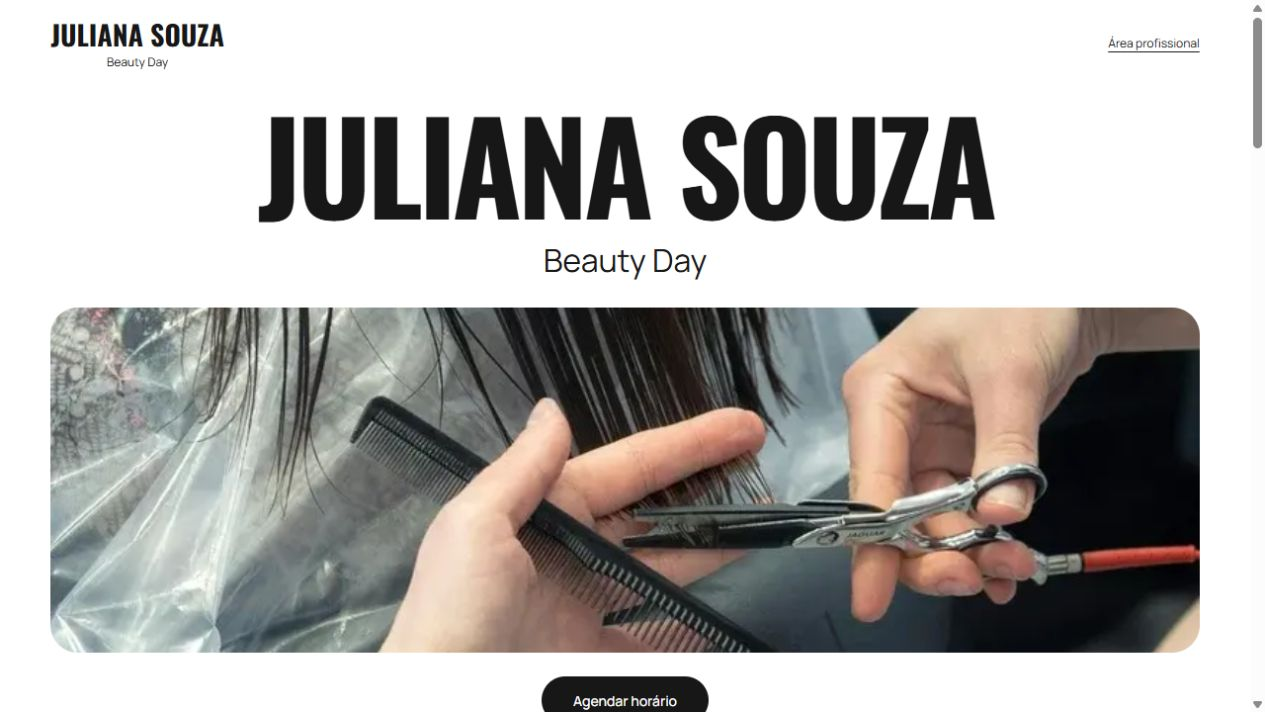
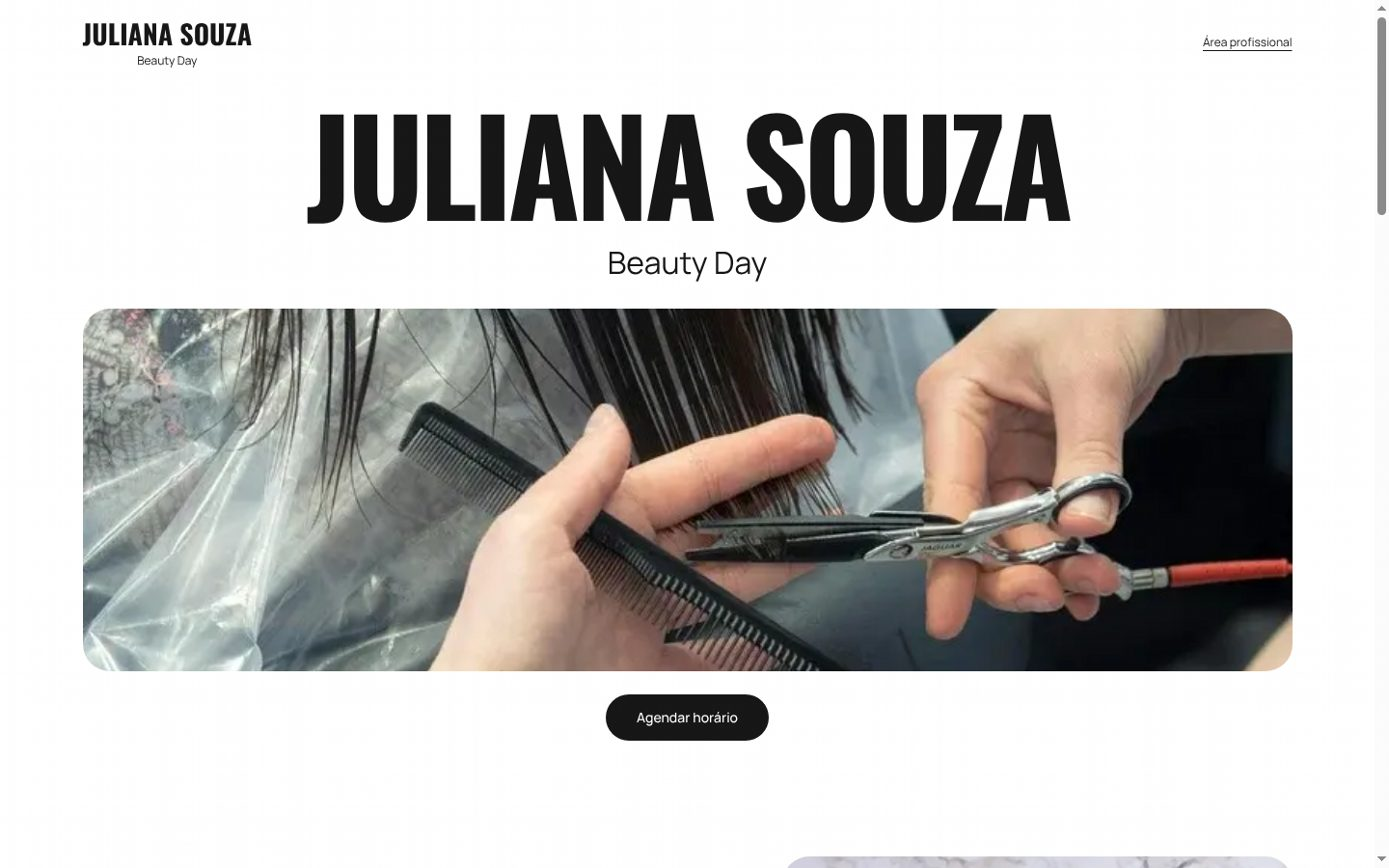
fix: botão de erro recarrega a página inteira

diff --git a/app/error.tsx b/app/error.tsx
@@ -2,7 +2,8 @@
 
 import Link from "next/link";
 
-export default function ErrorPage({ reset }: { error: Error; reset: () => void }) {
+// Recarrega a página inteira: reset() só refaz o lado do navegador e não busca de novo os dados do servidor.
+export default function ErrorPage() {
   return (
     <main className="mx-auto flex min-h-screen max-w-xl flex-col gap-6 px-6 py-16">
       <h1 className="font-display text-2xl text-ink">Algo deu errado por aqui</h1>
@@ -13,7 +14,7 @@ export default function ErrorPage({ reset }: { error: Error; reset: () => void }
       <div className="flex flex-wrap items-center gap-4">
         <button
           type="button"
-          onClick={reset}
+          onClick={() => window.location.reload()}
           className="rounded-sm bg-clay px-6 py-3 font-sans text-sm font-medium text-cream transition-colors hover:bg-clay-dark"
         >
           Tentar de novo

diff --git a/app/painel/error.tsx b/app/painel/error.tsx
@@ -1,6 +1,6 @@
 'use client'
 import type { ReactElement } from 'react'
 import { primary } from '@/components/admin/styles'
-export default function ErrorPage({ reset }: { reset: () => void }): ReactElement {
-  return <section role="alert" className="space-y-4 rounded-2xl border border-sand p-6"><h1 className="font-display text-3xl">Não foi possível carregar o painel.</h1><p>Confira sua conexão e tente novamente.</p><button type="button" onClick={reset} className={primary}>Tentar novamente</button></section>
+export default function ErrorPage(): ReactElement {
+  return <section role="alert" className="space-y-4 rounded-2xl border border-sand p-6"><h1 className="font-display text-3xl">Não foi possível carregar o painel.</h1><p>Confira sua conexão e tente novamente.</p><button type="button" onClick={() => window.location.reload()} className={primary}>Tentar novamente</button></section>
 }

diff --git a/app/login/error.tsx b/app/login/error.tsx
@@ -1,5 +1,5 @@
 'use client'
 
-export default function LoginError({ reset }: { reset: () => void }): React.JSX.Element {
-  return <main className="mx-auto max-w-lg px-6 py-20 text-ink"><h1 className="font-display text-3xl">Vamos tentar de novo?</h1><p role="alert" className="my-6">Não foi possível carregar o acesso. Tente novamente em instantes.</p><button type="button" onClick={reset} className="public-cta">Tentar novamente</button></main>
+export default function LoginError(): React.JSX.Element {
+  return <main className="mx-auto max-w-lg px-6 py-20 text-ink"><h1 className="font-display text-3xl">Vamos tentar de novo?</h1><p role="alert" className="my-6">Não foi possível carregar o acesso. Tente novamente em instantes.</p><button type="button" onClick={() => window.location.reload()} className="public-cta">Tentar novamente</button></main>
 }

diff --git a/docs/TASKS.md b/docs/TASKS.md
@@ -10,8 +10,8 @@ Cada etapa tem aceite verificável. Código local, SQL remoto e publicação sã
 | 4 QA-01 | Verificar entrega completa | Alta / médio | Automatizado e público concluídos; sessão real pendente | 195 testes, 11 pontuais, lint/build local/remoto, HTTP e CUA passaram; proprietário indisponível para editor/upload/refresh |
 | 5 REL-01 | Publicar versão revisada | Alta / pequeno | Concluída em 08/10/2026 | Autorização explícita; build remoto, smoke e promoção; dpl_3DKWdU3HYB6ifYfXVgRUWPnc9yNS; sem commit/push |
 | 5b WA-00 | Aviso à cliente por link wa.me | Alta / pequeno | Implementado localmente em 18/11/2026; não publicado | Decisão do usuário: Juliana aprova no painel e envia pelo botão "Avisar cliente no WhatsApp" (mensagem pronta por status, número da cliente com 55). Nada é enviado sem ela tocar em enviar. 8 testes em lib/whatsapp-message.test.ts passaram; suíte completa, lint, build e teste com sessão real pendentes no PC |
-| 5c OPS-00 | Restaurar produção e evitar nova pausa | Alta / pequeno | Pendente | Em 18/11 o Supabase estava INACTIVE e todas as páginas mostravam erro. Restaurar o projeto, conferir páginas públicas e definir como manter ativo (uso real ou plano pago) |
-| 5d DOC-01 | README de portfólio | Média / pequeno | Implementado localmente em 18/11/2026 | README voltado a recrutador; guia técnico preservado em docs/DESENVOLVIMENTO.md. Faltam prints do fluxo após restaurar produção, repo no GitHub e ambiente demo |
+| 5c OPS-00 | Restaurar produção e evitar nova pausa | Alta / pequeno | Restaurado em 18/11/2026; prevenção pendente | Supabase estava INACTIVE e todas as páginas mostravam erro. Restaurado com autorização do usuário; status ACTIVE_HEALTHY, home e /agendar carregaram com serviços e horários reais. Falta definir como evitar nova pausa (uso real ou plano pago) |
+| 5d DOC-01 | README de portfólio | Média / pequeno | Implementado localmente em 18/11/2026 | README voltado a recrutador; guia técnico preservado em docs/DESENVOLVIMENTO.md. Prints do fluxo público (3 passos, sem enviar pedido) incluídos. Faltam repo no GitHub, print do painel e ambiente demo |
 | 6 WA-01 | WhatsApp oficial para clientes | Alta / médio | Adiada pelo usuário | Proprietária disponível, conta Meta/Business correta, elegibilidade de um número +5519971580111, provedor/templates/custos; decisões no painel |
 | 7 OPS-01 | Operação contínua | Média / pequeno | Pendente de configuração | Backup/restauração testados, retenção aprovada, limpeza segura de fotos órfãs; não apagar dados automaticamente |
 | 8 SMTP-01 | Recuperação automática para e-mail da proprietária | Média / pequeno | Pendência aceita pelo usuário | Domínio e SMTP futuros; senha já alterada e login validado na sessão anterior |

diff --git a/docs/MEMORY.md b/docs/MEMORY.md
@@ -24,7 +24,7 @@ Próximo passo: conferir editor, upload e refresh com login real quando a propri
 
 18/11/2026: usuário escolheu link wa.me em vez da API oficial para avisar a cliente; projeto serve para uso real da Juliana e para portfólio. Adicionados lib/whatsapp-message.ts (+ teste) e botão no detalhe da reserva (EntryDetails). Sem commit/publicação. Próximos: commit, suíte completa/lint/build, conferência com login real, README de portfólio com conta demo.
 
-18/11/2026 (2): commit 396e154 em feat/painel-admin inclui todo o trabalho desde 775fa8e; build local gerou BUILD_ID às 19:55. Repositório sem remote: push não ocorreu e não existe repo no GitHub. Produção fora do ar: Supabase dncuvkrwvrqxdltsympy com status INACTIVE (pausa do plano gratuito por inatividade); restauração pendente de autorização. README reescrito para portfólio; README técnico movido para docs/DESENVOLVIMENTO.md.
+18/11/2026 (2): commit 396e154 em feat/painel-admin inclui todo o trabalho desde 775fa8e; build local gerou BUILD_ID às 19:55. Repositório sem remote: push não ocorreu e não existe repo no GitHub. Produção fora do ar: Supabase dncuvkrwvrqxdltsympy com status INACTIVE (pausa do plano gratuito por inatividade); restaurado no mesmo dia com autorização do usuário (ACTIVE_HEALTHY; home e /agendar conferidos, nenhum pedido enviado). Plano gratuito pode pausar de novo após inatividade. README reescrito para portfólio; README técnico movido para docs/DESENVOLVIMENTO.md.
 
 Histórico arquivado: [MEMORY-anterior](reviews/2026-10-07-finalizacao/MEMORY-anterior.md). Execução atual: [TASKS](TASKS.md). Revisão item a item: [SEGURANCA](reviews/2026-10-07-finalizacao/SEGURANCA.md).
 

diff --git a/README.md b/README.md
@@ -17,6 +17,14 @@ Combinar horário por mensagem exige, a cada pedido, descobrir quais serviços a
 2. Vê só os horários em que o atendimento inteiro cabe, dentro do expediente e com pelo menos 2 h de antecedência.
 3. Envia o pedido e recebe um comprovante dizendo que ele está **aguardando confirmação**.
 
+<p>
+  <img src="docs/images/agendar-1-servicos.png" alt="Passo 1: escolha de serviços com duração somada" width="260">
+  <img src="docs/images/agendar-2-horarios.png" alt="Passo 2: horários livres para um atendimento de 85 minutos" width="260">
+  <img src="docs/images/agendar-3-dados.png" alt="Passo 3: resumo com serviços, horário e total" width="260">
+</p>
+
+Escova + corte somam 85 min. O último horário oferecido é 16:30, porque o atendimento inteiro precisa terminar dentro do expediente.
+
 **Proprietária (painel em `/painel`)**
 - Agenda por dia, semana ou mês, com bloqueios de horário.
 - Aprova, reagenda, recusa ou cancela pedidos. Pedidos feitos no expediente expiram em 120 min sem resposta.
